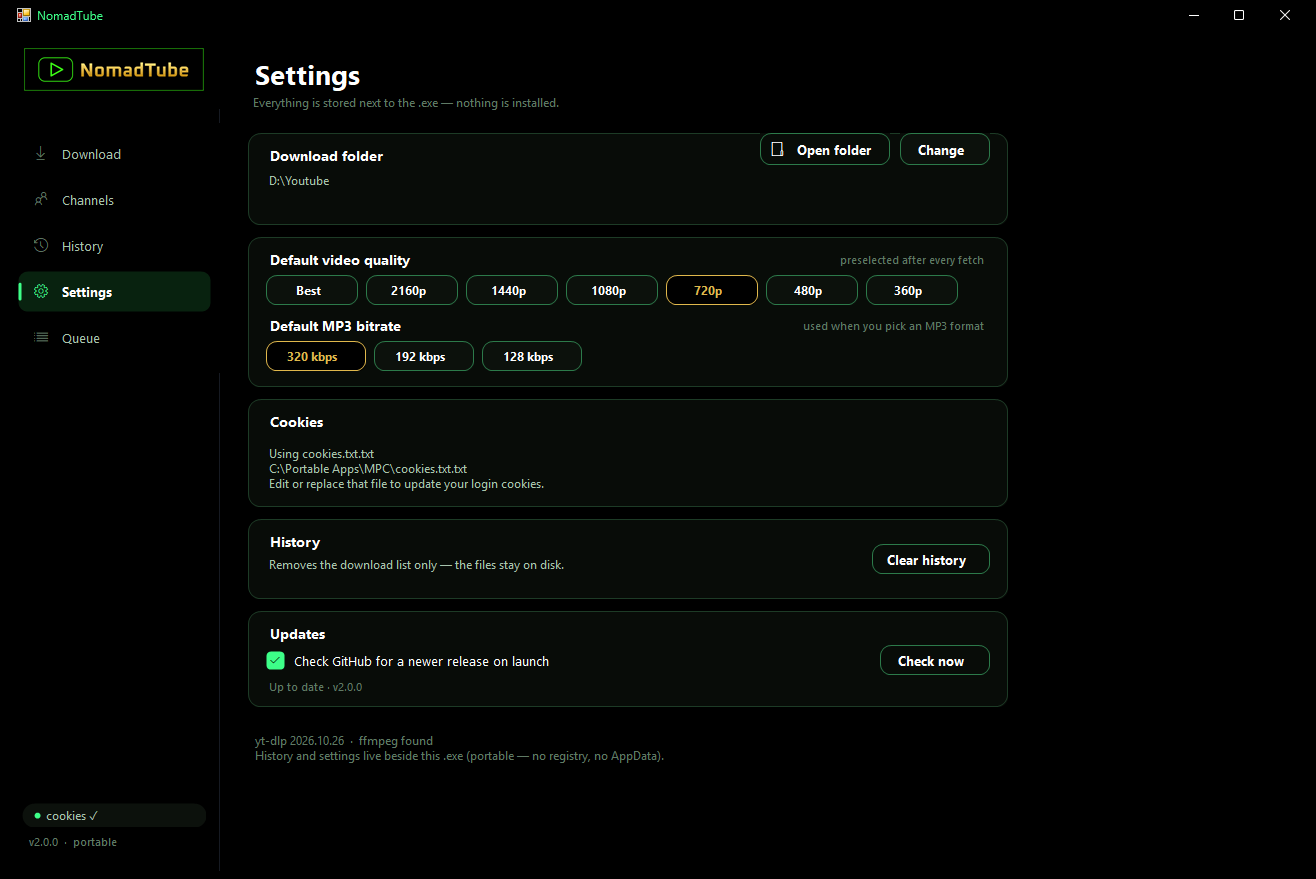
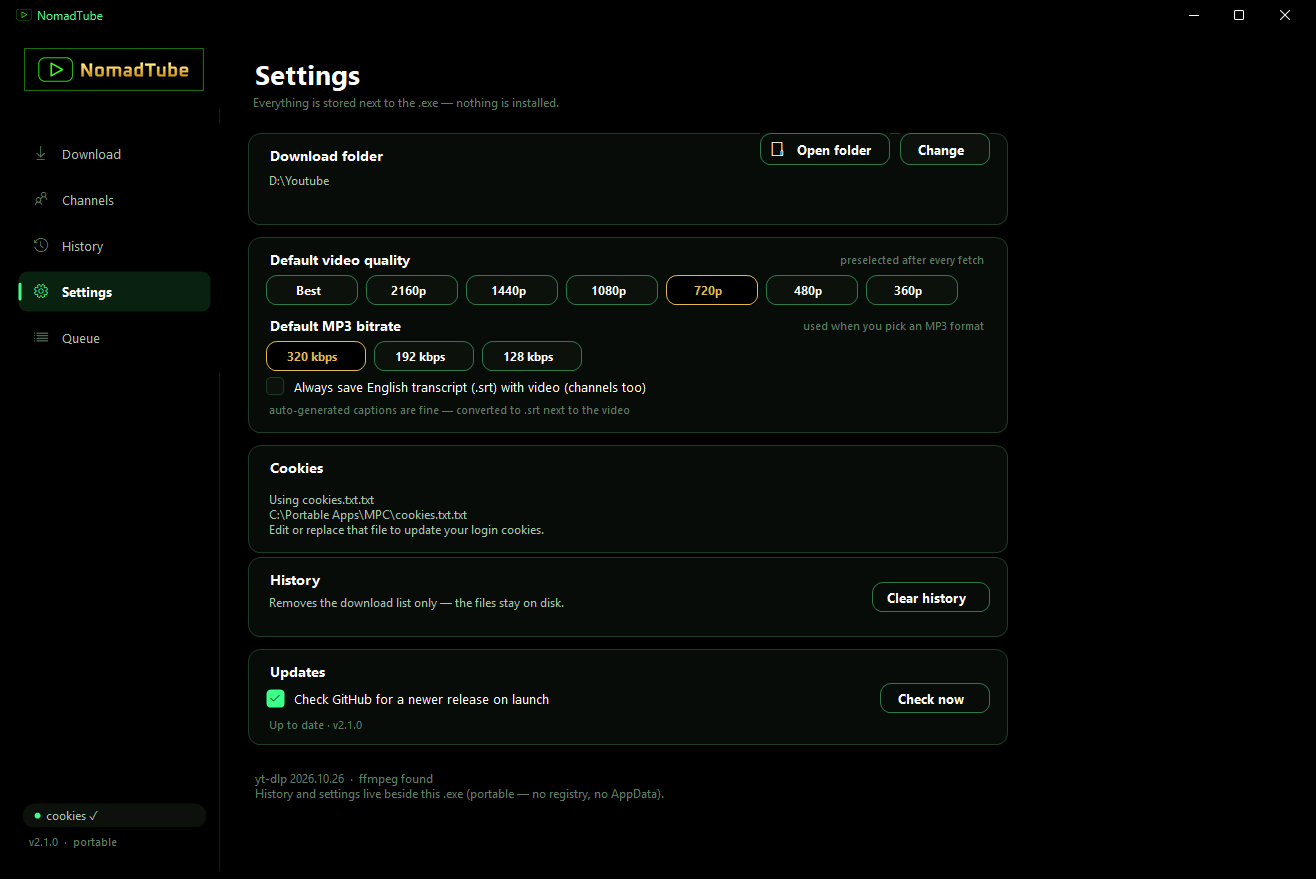
NomadTube v2.1.0 - transcripts
New Transcript card on the Download screen for English .srt only (single videos and playlists).
Settings toggle 'Always save English transcript with video' writes a .srt beside every download, channel downloads included.
English only via --sub-langs en,en-orig, converted to srt with ffmpeg; transcript-only jobs appear in History as SRT.
README and screenshots updated.

diff --git a/src/DownloadService.cs b/src/DownloadService.cs
@@ -39,6 +39,7 @@ namespace MpcGrabber
             job.VideoFmt = fmt.VideoFmt;
             job.AudioBitrate = fmt.AudioBitrate;
             job.QualityLabel = fmt.Title;
+            job.TranscriptOnly = fmt.TranscriptOnly;
             job.ChannelId = channelId ?? "";
             job.ChannelName = channelName ?? "";
             job.OutputTemplate = outputTemplate ?? "";
@@ -87,17 +88,25 @@ namespace MpcGrabber
             string temp = Path.Combine(Path.GetTempPath(), "mpcgrabber_" + Guid.NewGuid().ToString("N") + ".txt");
             StringBuilder args = new StringBuilder();
             args.Append(YtDlp.CommonArgs());
+            bool subsOnly = job.TranscriptOnly;
+            bool subsWithVideo = !subsOnly && Store.Current.TranscriptWithVideo;
             args.Append("--newline --no-playlist --windows-filenames ");
+            string subs = "--write-subs --write-auto-subs --sub-langs " + YtDlp.Quote("en,en-orig") + " --convert-subs srt ";
+            if (subsOnly) args.Append("--skip-download ").Append(subs);
+            else if (subsWithVideo) args.Append(subs);
             string outTemplate = string.IsNullOrEmpty(job.OutputTemplate) ? "%(title)s.%(ext)s" : job.OutputTemplate;
             // Path.Combine rejects template format specs such as %(upload_date>%m%d%y)s, so join manually
             string outFileTemplate = folder.EndsWith("\\") ? folder + outTemplate : folder + "\\" + outTemplate;
             args.Append("-o ").Append(YtDlp.Quote(outFileTemplate)).Append(' ');
-            args.Append("--print-to-file after_move:filepath ").Append(YtDlp.Quote(temp)).Append(' ');
-            if (job.AudioBitrate > 0)
-                args.Append("-x --audio-format mp3 --audio-quality ").Append(job.AudioBitrate).Append("K ");
-            else
-                args.Append("--merge-output-format mp4 ");
-            args.Append("-f ").Append(YtDlp.Quote(job.VideoFmt)).Append(' ');
+            if (!subsOnly) args.Append("--print-to-file after_move:filepath ").Append(YtDlp.Quote(temp)).Append(' ');
+            if (!subsOnly)
+            {
+                if (job.AudioBitrate > 0)
+                    args.Append("-x --audio-format mp3 --audio-quality ").Append(job.AudioBitrate).Append("K ");
+                else
+                    args.Append("--merge-output-format mp4 ");
+                args.Append("-f ").Append(YtDlp.Quote(job.VideoFmt)).Append(' ');
+            }
             args.Append(YtDlp.Quote(job.Url));
             Process p = new Process();
             p.StartInfo = new ProcessStartInfo(YtDlp.ExePath, args.ToString());
@@ -168,6 +177,8 @@ namespace MpcGrabber
             }
             catch { }
 
+            if (subsOnly && outPath.Length == 0) outPath = job.SubtitlePath;
+
             if (_cancel)
             {
                 job.State = JobState.Cancelled;
@@ -190,7 +201,7 @@ namespace MpcGrabber
                 {
                     if (el[i].Trim().Length > 0) last.AppendLine(el[i].Trim());
                 }
-                job.Error = last.ToString().Trim();
+                job.Error = subsOnly ? "No English transcript available for this video." : last.ToString().Trim();
                 Raise(true);
                 return;
             }
@@ -221,7 +232,7 @@ namespace MpcGrabber
             h.Title = job.Title;
             h.Url = job.Url;
             h.FilePath = outPath;
-            h.Kind = job.AudioBitrate > 0 ? "MP3" : "MP4";
+            h.Kind = job.TranscriptOnly ? "SRT" : (job.AudioBitrate > 0 ? "MP3" : "MP4");
             h.Quality = job.QualityLabel;
             h.FinishedAt = DateTime.Now.ToString("yyyy-MM-dd HH:mm");
             h.Channel = job.ChannelName;
@@ -237,6 +248,20 @@ namespace MpcGrabber
 
         private void ParseLine(DownloadJob job, string line)
         {
+            const string subMark = "Writing video subtitles to:";
+            int subAt = line.IndexOf(subMark, StringComparison.OrdinalIgnoreCase);
+            if (subAt >= 0)
+            {
+                string subPath = line.Substring(subAt + subMark.Length).Trim().Trim('\"');
+                if (subPath.EndsWith(".vtt", StringComparison.OrdinalIgnoreCase) ||
+                    subPath.EndsWith(".ttml", StringComparison.OrdinalIgnoreCase) ||
+                    subPath.EndsWith(".srv1", StringComparison.OrdinalIgnoreCase) ||
+                    subPath.EndsWith(".srv2", StringComparison.OrdinalIgnoreCase) ||
+                    subPath.EndsWith(".srv3", StringComparison.OrdinalIgnoreCase))
+                    subPath = Path.ChangeExtension(subPath, ".srt");
+                if (subPath.Length > 0) job.SubtitlePath = subPath;
+            }
+
             Match m = ProgressRx.Match(line);
             if (m.Success)
             {

diff --git a/src/MainForm.cs b/src/MainForm.cs
@@ -179,6 +179,7 @@ namespace MpcGrabber
         private DownloadButton _btnChanDownload;
         private LoadingOverlay _loading;
         private ToggleBox _chkUpdates;
+        private ToggleBox _chkTranscript;
         private FlatButton _btnCheckNow;
         private Label _lblUpdateStatus;
         private Label _lblVersion;
@@ -215,6 +216,7 @@ namespace MpcGrabber
                 _autoDownload = true;
 
             Text = "NomadTube";
+            try { Icon = Icon.ExtractAssociatedIcon(Application.ExecutablePath); } catch { }
             AutoScaleMode = AutoScaleMode.None;
             BackColor = T.Bg;
             ForeColor = T.Text;
@@ -1115,7 +1117,7 @@ namespace MpcGrabber
             RoundedPanel cardDefaults = new RoundedPanel();
             cardDefaults.Fill = T.Card;
             cardDefaults.Radius = 12;
-            cardDefaults.Bounds = new Rectangle(0, 182, 760, 150);
+            cardDefaults.Bounds = new Rectangle(0, 182, 760, 196);
             _pageSettings.Controls.Add(cardDefaults);
 
             Label lblVideo = MkLabel("Default video quality", T.H3, T.Text, T.Card);
@@ -1171,6 +1173,17 @@ namespace MpcGrabber
                     UpdateSettingPills();
                 };
                 cardDefaults.Controls.Add(b);
+
+            _chkTranscript = new ToggleBox();
+            _chkTranscript.Text = "Always save English transcript (.srt) with video (channels too)";
+            _chkTranscript.Bounds = new Rectangle(18, 138, 590, 22);
+            _chkTranscript.Checked = Store.Current.TranscriptWithVideo;
+            _chkTranscript.CheckedChanged += delegate { Store.Current.TranscriptWithVideo = _chkTranscript.Checked; Store.SaveSettings(); };
+            cardDefaults.Controls.Add(_chkTranscript);
+
+            Label lblTrHint = MkLabel("auto-generated captions are fine \u2014 converted to .srt next to the video", T.Tiny, T.Faint, T.Card);
+            lblTrHint.Bounds = new Rectangle(18, 164, 620, 16);
+            cardDefaults.Controls.Add(lblTrHint);
                 _audioBtns[i] = b;
             }
 
@@ -1178,7 +1191,7 @@ namespace MpcGrabber
             RoundedPanel card2 = new RoundedPanel();
             card2.Fill = T.Card;
             card2.Radius = 12;
-            card2.Bounds = new Rectangle(0, 344, 760, 108);
+            card2.Bounds = new Rectangle(0, 390, 760, 108);
             _pageSettings.Controls.Add(card2);
 
             Label lbl3 = MkLabel("Cookies", T.H3, T.Text, T.Card);
@@ -1193,7 +1206,7 @@ namespace MpcGrabber
             RoundedPanel card3 = new RoundedPanel();
             card3.Fill = T.Card;
             card3.Radius = 12;
-            card3.Bounds = new Rectangle(0, 464, 760, 80);
+            card3.Bounds = new Rectangle(0, 502, 760, 80);
             _pageSettings.Controls.Add(card3);
 
             Label lbl4 = MkLabel("History", T.H3, T.Text, T.Card);
@@ -1213,7 +1226,7 @@ namespace MpcGrabber
             RoundedPanel card4 = new RoundedPanel();
             card4.Fill = T.Card;
             card4.Radius = 12;
-            card4.Bounds = new Rectangle(0, 556, 760, 96);
+            card4.Bounds = new Rectangle(0, 594, 760, 96);
             _pageSettings.Controls.Add(card4);
 
             Label lblUpd = MkLabel("Updates", T.H3, T.Text, T.Card);
@@ -1239,7 +1252,7 @@ namespace MpcGrabber
 
             Label about = MkLabel("", T.Small, T.Faint, T.Bg);
             about.Name = "about";
-            about.Bounds = new Rectangle(4, 668, 760, 50);
+            about.Bounds = new Rectangle(4, 706, 760, 50);
             _pageSettings.Controls.Add(about);
 
             _pageSettings.Resize += delegate
@@ -1286,6 +1299,7 @@ namespace MpcGrabber
             }
             UpdateSettingPills();
             if (_chkUpdates != null) _chkUpdates.Checked = Store.Current.CheckUpdates;
+            if (_chkTranscript != null) _chkTranscript.Checked = Store.Current.TranscriptWithVideo;
             if (_lblUpdateStatus != null && _lblUpdateStatus.Text.Length == 0) _lblUpdateStatus.Text = "current build v" + Updater.CurrentShort;
             Control[] found = _pageSettings.Controls.Find("about", true);
             if (found.Length > 0)

diff --git a/src/Models.cs b/src/Models.cs
@@ -12,6 +12,7 @@ namespace MpcGrabber
         public string Sub = "";
         public string VideoFmt = "bv*+ba/b";
         public int AudioBitrate = 0;      // 0 = video
+        public bool TranscriptOnly = false;
         public bool IsAudio { get { return AudioBitrate > 0; } }
         public string Badge = null;
     }
@@ -57,6 +58,8 @@ namespace MpcGrabber
         public string ChannelName = "";
         public string ChannelId = "";
         public string OutputTemplate = "";
+        public string SubtitlePath = "";
+        public bool TranscriptOnly = false;
     }
 
     internal class HistoryEntry
@@ -78,6 +81,7 @@ namespace MpcGrabber
         public int AudioBitrate { get; set; }
         public string VideoQuality { get; set; }
         public bool CheckUpdates { get; set; }
+        public bool TranscriptWithVideo { get; set; }
         public int ChannelDays { get; set; }
         public Settings() { AudioBitrate = 320; VideoQuality = "best"; CheckUpdates = true; ChannelDays = 30; }
     }

diff --git a/src/YtDlp.cs b/src/YtDlp.cs
@@ -185,6 +185,7 @@ namespace MpcGrabber
                 int r = rates[i];
                 list.Add(new FormatOption { Title = "MP3 " + r, Sub = "audio only", AudioBitrate = r });
             }
+            list.Add(new FormatOption { Title = "Transcript", Sub = "English .srt only", TranscriptOnly = true });
         }
 
         public static void Log(string message)

diff --git a/src/AssemblyInfo.cs b/src/AssemblyInfo.cs
@@ -5,5 +5,5 @@ using System.Reflection;
 [assembly: AssemblyProduct("NomadTube")]
 [assembly: AssemblyCompany("")]
 [assembly: AssemblyCopyright("")]
-[assembly: AssemblyVersion("2.0.0.0")]
-[assembly: AssemblyFileVersion("2.0.0.0")]
+[assembly: AssemblyVersion("2.1.0.0")]
+[assembly: AssemblyFileVersion("2.1.0.0")]

diff --git a/README.md b/README.md
@@ -43,6 +43,9 @@ same folder, so the whole folder is the app. Deleting the folder removes every t
   switches to the Channels tab and loads that channel with the timeframe you last picked.
 - **Real formats per URL** — after *Fetch* it shows the actual resolutions with approximate sizes,
   plus **Best** and **MP3 320 / 192 / 128**.
+- **Transcripts** — a **Transcript** card on the Download screen saves just the English `.srt` instead of
+  a video or MP3; a Settings toggle (*Always save English transcript with video*) also writes `.srt`
+  next to every download, channel downloads included. English only, auto-captions are fine.
 - **Playlists** — checkbox list with All/None; your chosen quality applies to every checked item.
 - **Queue page** — its own section in the sidebar. Starting a playlist download jumps straight to it,
   with every item's state, quality, live percent / speed / ETA, *Cancel current* and *Clear finished*.
@@ -79,6 +82,8 @@ timeframe — **Last 24 hr**, **7 days** or **30 days** — and press **Fetch**.
   the Download page uses.
 - Save a channel by loading it — it stays in **Saved channels** with how many files you have downloaded from it.
   Items already downloaded are dimmed, ticked with a green check and left unchecked.
+- Channel downloads honour the *Always save English transcript* setting — tick it in Settings and each
+  channel video gets a matching `.srt` beside it (there is no transcript-only option on this page).
 - Channel downloads are named **`Channel - Title - MMDDYY-HHMM.ext`** (the time part is dropped when YouTube
   does not expose one) and are recorded in History with the channel name.
 - CLI: `NomadTube.exe --channel "@handle"` opens straight to that channel. Downloads use your default video
